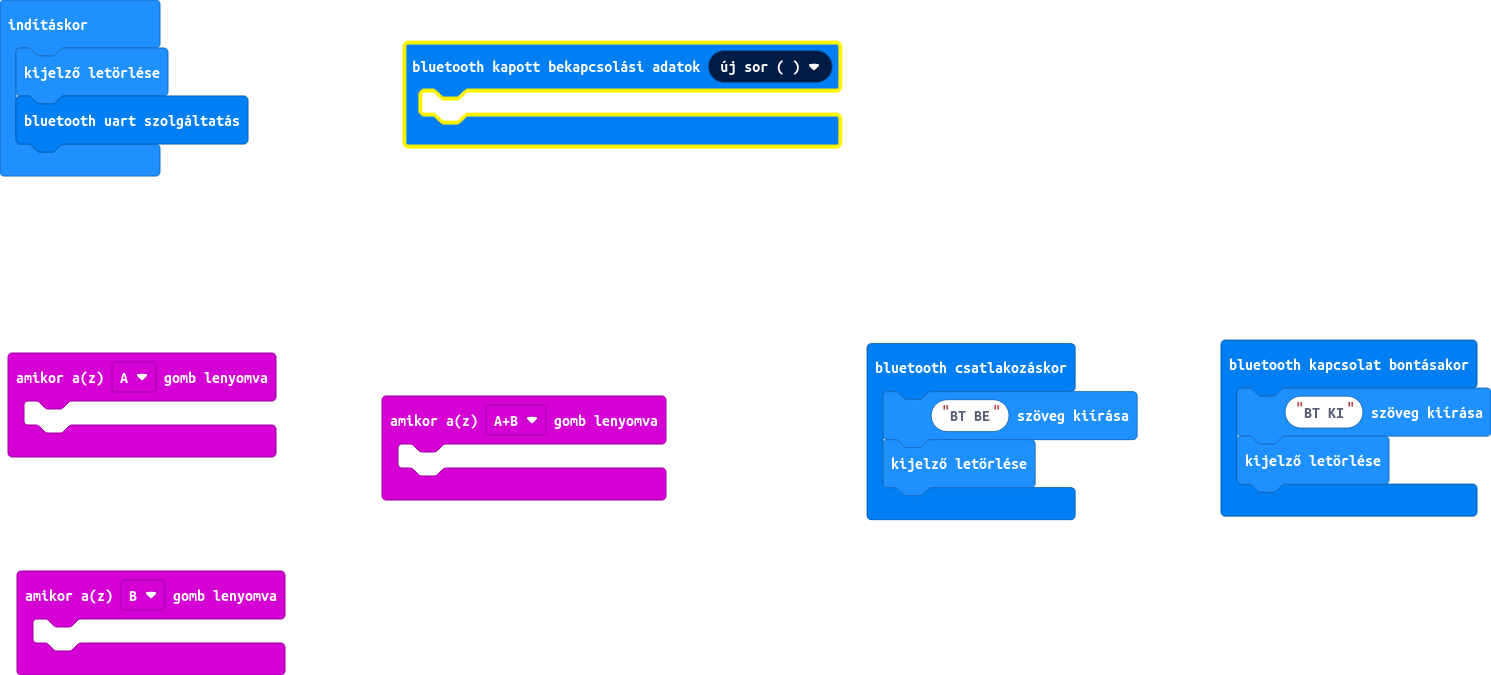
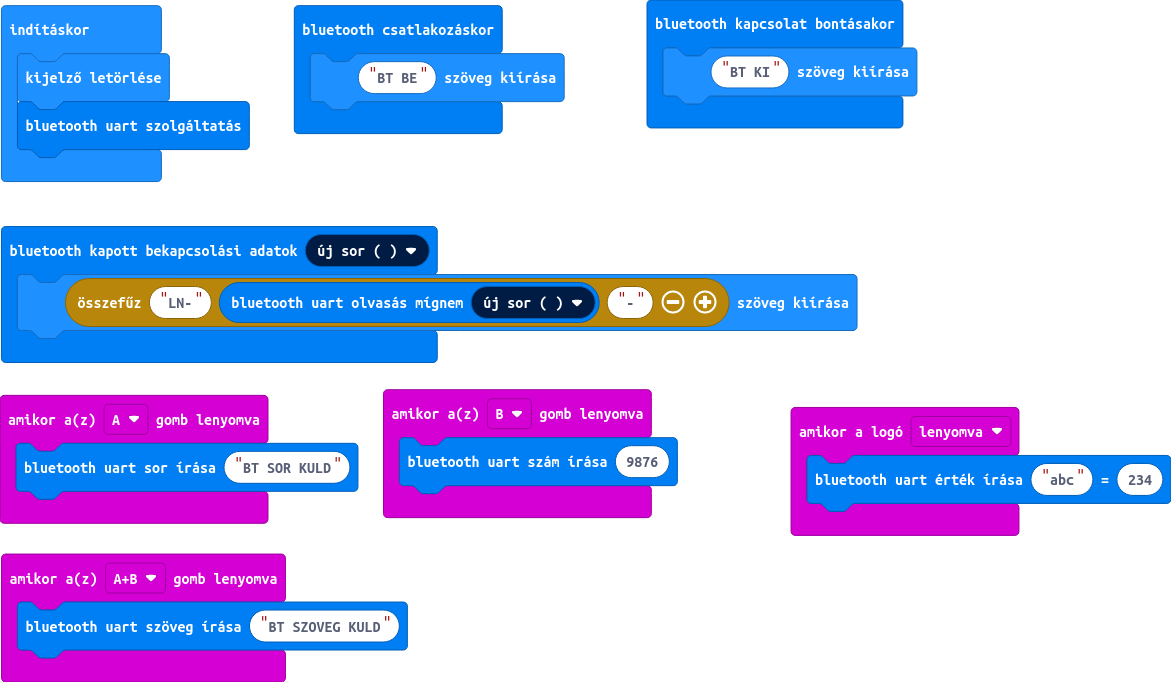
Bluetooth UART működik: https://support.microbit.org/support/solutions/articles/19000062330-using-the-micro-bit-bluetooth-low-energy-uart-serial-over-bluetooth-

diff --git a/main.ts b/main.ts
@@ -1,22 +1,23 @@
 bluetooth.onUartDataReceived(serial.delimiters(Delimiters.NewLine), function () {
-	
+    basic.showString("LN-" + bluetooth.uartReadUntil(serial.delimiters(Delimiters.NewLine)) + "-")
 })
 bluetooth.onBluetoothConnected(function () {
     basic.showString("BT BE")
-    basic.clearScreen()
 })
 bluetooth.onBluetoothDisconnected(function () {
     basic.showString("BT KI")
-    basic.clearScreen()
 })
 input.onButtonPressed(Button.A, function () {
-	
+    bluetooth.uartWriteLine("BT SOR KULD")
 })
 input.onButtonPressed(Button.AB, function () {
-	
+    bluetooth.uartWriteString("BT SZOVEG KULD")
 })
 input.onButtonPressed(Button.B, function () {
-	
+    bluetooth.uartWriteNumber(9876)
+})
+input.onLogoEvent(TouchButtonEvent.Pressed, function () {
+    bluetooth.uartWriteValue("abc", 234)
 })
 basic.clearScreen()
 bluetooth.startUartService()

diff --git a/main.py b/main.py
@@ -1,0 +1,31 @@
+def on_bluetooth_connected():
+    basic.show_string("BT BE")
+bluetooth.on_bluetooth_connected(on_bluetooth_connected)
+
+def on_bluetooth_disconnected():
+    basic.show_string("BT KI")
+bluetooth.on_bluetooth_disconnected(on_bluetooth_disconnected)
+
+def on_button_pressed_a():
+    bluetooth.uart_write_line("BT SOR KULD")
+input.on_button_pressed(Button.A, on_button_pressed_a)
+
+def on_uart_data_received():
+    basic.show_string("LN-" + bluetooth.uart_read_until(serial.delimiters(Delimiters.SEMI_COLON)) + "-")
+bluetooth.on_uart_data_received(serial.delimiters(Delimiters.SEMI_COLON),
+    on_uart_data_received)
+
+def on_button_pressed_ab():
+    bluetooth.uart_write_string("BT SZOVEG KULD")
+input.on_button_pressed(Button.AB, on_button_pressed_ab)
+
+def on_button_pressed_b():
+    bluetooth.uart_write_number(9876)
+input.on_button_pressed(Button.B, on_button_pressed_b)
+
+def on_logo_pressed():
+    bluetooth.uart_write_value("abc", 234)
+input.on_logo_event(TouchButtonEvent.PRESSED, on_logo_pressed)
+
+basic.clear_screen()
+bluetooth.start_uart_service()
